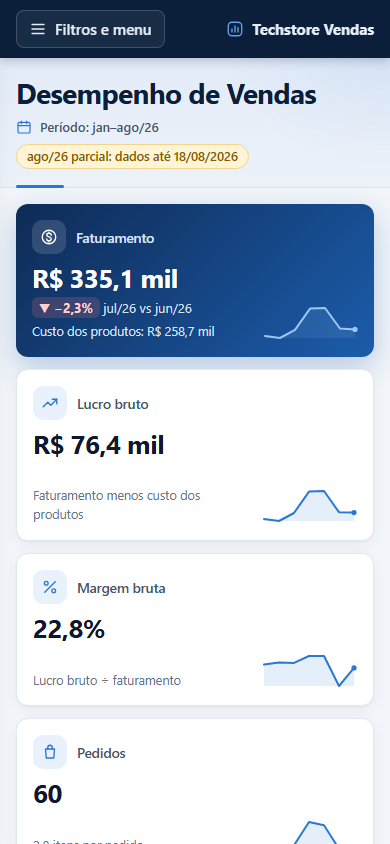
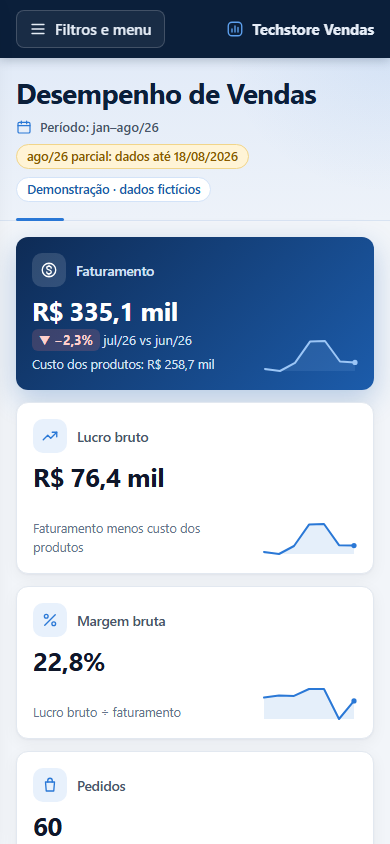
Documentação: README para portfólio com link do dashboard publicado
README reorganizado para recrutadores: link da demonstração pública, resumo
com objetivo, entregas, qualidade e competências, principais números (dados
fictícios), arquitetura e fluxo dos dados, modelagem, consultas e views.
Deixa explícito que a demonstração usa dados estáticos, sem acesso a banco.

Capturas de docs/imagens refeitas a partir do endereço público, nos mesmos
estados e tamanhos (mesmos nomes, sem arquivos novos). Dashboard inalterado.

Espelho-de: bea810dacbb222afa33186f463aac31b462c46fa

diff --git a/README.md b/README.md
@@ -1,25 +1,42 @@
 # TechStore Vendas · Análise de vendas com PostgreSQL, API e dashboard web
 
-Projeto de portfólio que leva os dados de uma loja de tecnologia **do banco ao dashboard**:
-- modelagem e correção de um banco **PostgreSQL**, com scripts reproduzíveis e testes automáticos de qualidade;
-- camada analítica em **modelo estrela**;
-- **API somente leitura em Python (FastAPI)**;
-- **dashboard web** em HTML, CSS, JavaScript e Chart.js;
-- material de redesenho do relatório **Power BI**.
+Projeto de portfólio em **Análise de Dados e Business Intelligence**. Ele leva os dados de vendas de uma loja de tecnologia **do banco de dados ao dashboard**, com cada número conferido por testes automáticos.
 
-> 🔗 **Dashboard online (demonstração):** `https://<seu-usuario>.github.io/<repositorio>/` *(o endereço final aparece em Settings › Pages depois da primeira publicação; ver [docs/PUBLICACAO.md](docs/PUBLICACAO.md))*
->
+### ▶ [Acessar o dashboard online](https://thiagomiranda396.github.io/techstore-vendas/)
+
+`https://thiagomiranda396.github.io/techstore-vendas/`, no computador ou no celular, sem instalar nada.
+
 > ⚠ **Dados fictícios.** Clientes, vendedores e pedidos foram criados para demonstração. Os custos de produto vêm da base de desenvolvimento do autor e também são de uma loja fictícia.
+>
+> 🔒 **A demonstração pública usa dados estáticos.** O GitHub Pages serve um arquivo com os dados já exportados ([web/dados-demo/demo.json](web/dados-demo/demo.json)), e os indicadores são calculados no navegador. A página publicada **não acessa banco de dados, API nem nenhum computador do autor**.
 
-![Dashboard TechStore Vendas](docs/imagens/painel_desktop.png)
+![Dashboard TechStore Vendas: indicadores principais e destaques do período](docs/imagens/painel_desktop.png)
+
+---
+
+## Resumo
+
+| | |
+|---|---|
+| **Objetivo** | Transformar scripts SQL com erros num processo de dados confiável e entregar um painel de vendas, rentabilidade e equipe comercial |
+| **Entregas** | Banco PostgreSQL reproduzível, camada analítica em modelo estrela, API somente leitura, dashboard web publicado e material de Power BI |
+| **Qualidade** | 71 testes no banco, 55 testes na API, 10 testes da demonstração estática e 482 de 482 respostas da demonstração idênticas às da API |
+| **Competências** | Modelagem relacional e dimensional · SQL analítico (funções de janela, CTEs) · qualidade e reconciliação de dados · definição de KPIs · visualização de dados · Python · controle de acesso a dados · documentação de decisões |
+
+**Principais números (dados fictícios, jan a ago/2026):**
+- R$ 335,1 mil de faturamento, com margem bruta de 22,8%;
+- 60 pedidos e ticket médio de R$ 5.584,37;
+- 8 de 19 produtos concentram 81,6% da receita (classe A da curva ABC);
+- Informática responde por 44,3% do faturamento; Acessórios tem a maior margem (33,9%);
+- 37,5% dos clientes compraram mais de uma vez.
 
 ---
 
 ## Problema de negócio
 
-A loja quer responder, com números confiáveis:
+A loja precisa responder, com números confiáveis:
 - **Quanto vendemos e com que rentabilidade?** Faturamento, custo, lucro bruto e margem por mês, categoria e produto.
-- **Onde está a receita?** Concentração de faturamento (curva ABC) e categorias líderes.
+- **Onde está a receita?** Concentração do faturamento (curva ABC) e categorias líderes.
 - **Quem compra e quem volta a comprar?** Clientes ativos e recorrência.
 - **Como está a equipe comercial?** Faturamento, margem, ticket e clientes por vendedor.
 
@@ -28,7 +45,7 @@ O ponto de partida foram scripts SQL que **não rodavam do zero**:
 - itens apontavam para pedidos que não existiam;
 - havia pedidos anteriores ao cadastro do cliente.
 
-Também faltava um relatório **verificável**. O projeto corrige isso, documenta cada decisão e prova os números com testes.
+Também faltava um relatório **verificável**. O projeto corrige esses problemas, documenta cada decisão e prova os números com testes. Os scripts originais foram preservados em [sql/](sql/) como histórico.
 
 ---
 
@@ -36,15 +53,15 @@ Também faltava um relatório **verificável**. O projeto corrige isso, document
 
 | Camada | Tecnologia | Uso no projeto |
 |---|---|---|
-| Banco | **PostgreSQL 18**, **SQL** | DDL com restrições, carga em transação única, views analíticas, papéis de acesso, 71 testes de qualidade em SQL |
+| Banco | **PostgreSQL 18**, **SQL** | Estrutura com restrições, carga em transação única, views analíticas, papéis de acesso, 71 testes de qualidade em SQL |
 | API | **Python 3.12**, **FastAPI**, **psycopg 3**, **pytest** | 7 endpoints somente leitura e 55 testes (reconciliação, segurança e privilégios) |
 | Dashboard | **HTML**, **CSS**, **JavaScript** (módulos ES), **Chart.js 4.4.7** (cópia local) | Painel responsivo, com filtros, comparação entre períodos e tabelas acessíveis |
 | BI | **Power BI**, **DAX**, **Power Query (M)** | Relatório original do autor e material de redesenho: tema, consultas com parâmetros e 35 medidas DAX |
-| Publicação | **GitHub Actions**, **GitHub Pages** | Publicação automática da demonstração estática |
+| Publicação | **GitHub Actions**, **GitHub Pages** | Testes e publicação automática da demonstração estática |
 
 ---
 
-## Arquitetura
+## Arquitetura e fluxo dos dados
 
 ```mermaid
 flowchart LR
@@ -59,15 +76,16 @@ flowchart LR
     V -- "papel techstore_bi_leitor" --> BI["Power BI"]
 ```
 
-- **Localmente**, o dashboard consulta a API, que lê o PostgreSQL com um usuário que **só enxerga 4 views**. O navegador nunca acessa o banco.
-- **Na demonstração pública**, a mesma interface carrega `demo.json` e recalcula os indicadores no navegador ([web/js/demo.js](web/js/demo.js)). Fora de `localhost`, o modo de demonstração é **forçado**, e a página nunca tenta acessar a API nem o banco.
-- **A demonstração é comprovadamente equivalente à API:** em 482 comparações (8 períodos × 10 combinações de filtros × todos os endpoints), houve 0 divergências.
+1. **Carga e validação:** os scripts de [database/](database/) criam as tabelas, carregam os dados e rodam 71 testes. Se algum teste falhar, a carga inteira é desfeita.
+2. **Camada analítica:** views em modelo estrela, sem dados pessoais, servem a API e o Power BI.
+3. **Versão local:** o dashboard consulta a API, que lê o PostgreSQL com um usuário que **só enxerga 4 views**. O navegador nunca acessa o banco.
+4. **Versão pública:** a mesma interface lê `demo.json` e recalcula os indicadores no navegador ([web/js/demo.js](web/js/demo.js)). Fora de `localhost`, esse modo é **obrigatório**. A equivalência com a API foi comprovada em 482 comparações (8 períodos × 10 combinações de filtros × todos os endpoints), com 0 divergências.
 
 Mais detalhes em [docs/DASHBOARD_WEB.md](docs/DASHBOARD_WEB.md).
 
 ---
 
-## Modelagem de dados
+## Modelagem no PostgreSQL
 
 - **Modelo relacional:** 8 tabelas (`cliente`, `endereco`, `telefone`, `vendedor`, `categoria`, `produto`, `pedido`, `itens_pedido`), com:
   - 7 chaves estrangeiras, 13 regras CHECK e 6 índices;
@@ -75,13 +93,12 @@ Mais detalhes em [docs/DASHBOARD_WEB.md](docs/DASHBOARD_WEB.md).
 - **Modelo dimensional (estrela):**
   - `vw_fato_vendas`, com uma linha por item e só chaves e medidas;
   - `vw_dim_produto`, `vw_dim_vendedor` e `vw_dim_cliente`, **sem CPF, e-mail, telefone ou salário**;
-  - `vw_dim_calendario`, com nomes em português e a situação de cada mês (completo ou parcial).
+  - `vw_dim_calendario`, com nomes em português e a situação de cada mês (completo ou parcial);
+  - `vw_vendas`, a view do relatório original, mantida com o mesmo contrato de 15 colunas.
 
 Diagramas em [docs/MODELO_DE_DADOS.md](docs/MODELO_DE_DADOS.md) e colunas em [docs/DICIONARIO_DE_DADOS.md](docs/DICIONARIO_DE_DADOS.md).
 
----
-
-## SQL: o que foi desenvolvido
+### Consultas SQL e views analíticas
 
 | Script | Conteúdo | Técnicas |
 |---|---|---|
@@ -94,7 +111,11 @@ Diagramas em [docs/MODELO_DE_DADOS.md](docs/MODELO_DE_DADOS.md) e colunas em [do
 | [08_verificacoes_qualidade.sql](database/08_verificacoes_qualidade.sql) | **71 testes** | Reconciliação de totais, integridade temporal, órfãos, contrato da view, ausência de dados pessoais |
 | [09](database/09_acesso_leitura_bi.sql) · [10](database/10_acesso_leitura_api.sql) | Acesso | Papéis com privilégio mínimo (`SELECT` só em views) |
 
-**Consultas da API** ([api/techstore_api/consultas/](api/techstore_api/consultas/)): série mensal com `LAG` e média móvel `AVG OVER (ROWS 2 PRECEDING)`, curva ABC com soma acumulada e `DENSE_RANK`, comparação do último mês completo e recorrência de clientes.
+**Consultas do dashboard** ([api/techstore_api/consultas/](api/techstore_api/consultas/)):
+- série mensal com `LAG` e média móvel `AVG OVER (ROWS 2 PRECEDING)`;
+- curva ABC com soma acumulada e `DENSE_RANK`;
+- comparação do último mês completo;
+- recorrência de clientes.
 
 Cada correção feita nos scripts originais está registrada, com evidência, em [docs/DECISOES_E_CORRECOES.md](docs/DECISOES_E_CORRECOES.md).
 
@@ -118,16 +139,23 @@ Cada correção feita nos scripts originais está registrada, com evidência, em
   - período, com atalhos de trimestre e de últimos 3 meses;
   - categorias e vendedores, combináveis;
   - etiquetas removíveis e botão de redefinir;
-  - **filtros refletidos na URL**, para compartilhar uma visão filtrada.
+  - **filtros refletidos na URL**, para compartilhar uma visão filtrada ([exemplo: mai a jul/2026](https://thiagomiranda396.github.io/techstore-vendas/?de=2026-05&ate=2026-07)).
 - **Qualidade de uso:**
-  - layout responsivo (lateral vira menu deslizante no celular);
+  - layout responsivo (no celular, a lateral vira um menu deslizante);
   - tabela alternativa para os gráficos e navegação por teclado;
   - mês parcial sinalizado;
   - estados de "sem vendas" e "fonte indisponível".
 
 | Comparação entre períodos | Celular | Menu no celular |
 |---|---|---|
-| ![Comparação](docs/imagens/painel_comparacao_periodos.png) | ![Celular](docs/imagens/painel_celular.png) | ![Menu](docs/imagens/painel_celular_menu.png) |
+| ![Comparação de mai a jul/2026 com fev a abr/2026](docs/imagens/painel_comparacao_periodos.png) | ![Dashboard no celular](docs/imagens/painel_celular.png) | ![Menu de filtros no celular](docs/imagens/painel_celular_menu.png) |
+
+<details>
+<summary><b>Ver o dashboard completo</b> (tendência, categorias, curva ABC e equipe comercial)</summary>
+
+![Página inteira do dashboard](docs/imagens/painel_desktop_pagina_inteira.png)
+
+</details>
 
 ---
 
@@ -143,25 +171,9 @@ Cada correção feita nos scripts originais está registrada, com evidência, em
 
 ---
 
-## Estrutura do repositório
+## Como executar a versão local
 
-```
-database/        Scripts SQL reproduzíveis (00 executor · 01–06 carga · 07 consultas · 08 testes · 09–10 acesso)
-api/             API FastAPI (techstore_api/), consultas SQL fixas, testes, exportador da demonstração
-web/             Dashboard (HTML/CSS/JS), Chart.js local e dados da demonstração (dados-demo/)
-powerbi/         Tema, consultas Power Query e medidas DAX (sem .pbix)
-docs/            Decisões, modelo, dicionário, validação, dashboard, Power BI, ambiente, publicação
-docs/evidencias/ Saídas reais das execuções de validação do banco
-docs/imagens/    Capturas de tela
-sql/             Scripts originais, preservados como histórico (não executar; ver as correções C2–C5)
-documentacao/    Diagrama conceitual original (BRModelo)
-scripts/         Geração do branch de publicação
-.github/         Publicação automática no GitHub Pages
-```
-
----
-
-## Como executar localmente
+Para só ver o dashboard, use a [demonstração online](https://thiagomiranda396.github.io/techstore-vendas/). A versão local consulta o banco ao vivo pela API.
 
 Pré-requisitos: **PostgreSQL 15 ou mais novo** (validado no 18) com `psql`, e **Python 3.12**.
 
@@ -172,7 +184,7 @@ psql "host=localhost port=5433 dbname=techstore_dev_v1 user=<usuario>" -X -v ON_
 ```
 Resultado esperado: a tabela de testes sem nenhuma FALHA e a mensagem `Carga concluída e validada.` O executor só aceita bancos `techstore_dev*`.
 
-**2. Usuário somente leitura da API.** Crie o papel, defina a senha com `\password` e conceda o acesso; os comandos estão no cabeçalho de [database/10_acesso_leitura_api.sql](database/10_acesso_leitura_api.sql).
+**2. Usuário somente leitura da API.** Crie o papel, defina a senha com `\password` e conceda o acesso. Os comandos estão no cabeçalho de [database/10_acesso_leitura_api.sql](database/10_acesso_leitura_api.sql).
 ```bash
 psql "host=localhost port=5433 dbname=techstore_dev_v1 user=<usuario>" -X -f database/10_acesso_leitura_api.sql
 ```
@@ -183,9 +195,9 @@ cd api
 python -m venv .venv
 .\.venv\Scripts\python.exe -m pip install -r requirements-dev.txt
 powershell -ExecutionPolicy Bypass -File criar_env.ps1   # cria api\.env com a senha digitada de forma oculta (fora do Git)
-.\.venv\Scripts\python.exe -m techstore_api              # http://127.0.0.1:8000
+.\.venv\Scripts\python.exe -m techstore_api              # abra http://127.0.0.1:8000
 ```
-Ajuste o banco e a porta em `api\.env`, se forem diferentes do modelo [api/.env.exemplo](api/.env.exemplo).
+Se o banco e a porta forem diferentes do modelo [api/.env.exemplo](api/.env.exemplo), ajuste-os em `api\.env`.
 
 **4. Demonstração estática, localmente:** `http://127.0.0.1:8000/?fonte=demo`, ou qualquer servidor estático apontado para `web/`.
 
@@ -221,9 +233,25 @@ Os valores de referência são faturamento **R$ 335.062,30**, custo **R$ 258.699
 | Custo histórico | Foi registrado a partir do custo atual na carga inicial (não existe histórico real anterior) |
 | Demonstração pública | Usa um retrato estático dos dados; não consulta o banco ao vivo |
 | API | Feita para uso local, sem autenticação de usuários nem TLS |
-| Navegadores | A interface foi validada no Edge (Chromium); Firefox e Safari não foram testados |
+| Navegadores | Validação automatizada no Edge (Chromium); Firefox e Safari não passaram por testes automatizados |
 
 ---
+
+## Estrutura do repositório
+
+```
+database/        Scripts SQL reproduzíveis (00 executor · 01–06 carga · 07 consultas · 08 testes · 09–10 acesso)
+api/             API FastAPI (techstore_api/), consultas SQL fixas, testes, exportador da demonstração
+web/             Dashboard (HTML/CSS/JS), Chart.js local e dados da demonstração (dados-demo/)
+powerbi/         Tema, consultas Power Query e medidas DAX (sem .pbix)
+docs/            Decisões, modelo, dicionário, validação, dashboard, Power BI, ambiente, publicação
+docs/evidencias/ Saídas reais das execuções de validação do banco
+docs/imagens/    Capturas de tela
+sql/             Scripts originais, preservados como histórico (não executar; ver as correções C2–C5)
+documentacao/    Diagrama conceitual original (BRModelo)
+scripts/         Geração do branch de publicação
+.github/         Testes e publicação automática no GitHub Pages
+```
 
 ## Documentação
 
@@ -239,4 +267,4 @@ Os valores de referência são faturamento **R$ 335.062,30**, custo **R$ 258.699
 
 ---
 
-**Autor:** Thiago Miranda · Dados & Business Intelligence
+**Autor:** Thiago Miranda · Dados & Business Intelligence · [Dashboard online](https://thiagomiranda396.github.io/techstore-vendas/)

diff --git a/docs/APRESENTACAO_PORTFOLIO.md b/docs/APRESENTACAO_PORTFOLIO.md
@@ -11,7 +11,7 @@ Material de apoio para divulgar o projeto. Revise e ajuste ao seu tom antes de p
 **Descrição (até 350 caracteres):**
 > Análise de vendas de ponta a ponta: PostgreSQL com 71 testes de qualidade, modelo estrela sem dados pessoais, API FastAPI somente leitura (55 testes) e dashboard web responsivo em Chart.js, com demonstração pública. Material de Power BI com 35 medidas DAX. Dados fictícios.
 
-**Website do repositório:** o endereço do GitHub Pages (Settings › Pages).
+**Website do repositório:** https://thiagomiranda396.github.io/techstore-vendas/ (em *About › Website*, na página do repositório).
 
 **Tópicos:** `postgresql` · `sql` · `data-modeling` · `star-schema` · `data-quality` · `fastapi` · `python` · `javascript` · `chartjs` · `dashboard` · `power-bi` · `dax` · `github-pages` · `portfolio`
 
@@ -21,7 +21,7 @@ Material de apoio para divulgar o projeto. Revise e ajuste ao seu tom antes de p
 - [x] Nenhuma credencial versionada: `api/.env` é ignorado; só o `api/.env.exemplo`, sem valores, vai para o repositório
 - [x] `.pbix` fora do repositório público (identificadores do Power BI Service, credenciais criptografadas e modelo binário não auditável); no lugar, tema, consultas, medidas DAX, guia e capturas
 - [x] Commits publicados com o e-mail privado do GitHub ([PUBLICACAO.md](PUBLICACAO.md))
-- [ ] Atualizar o link da demonstração no README depois da primeira publicação no GitHub Pages
+- [x] Link da demonstração no README
 
 ---
 
@@ -47,7 +47,8 @@ Material de apoio para divulgar o projeto. Revise e ajuste ao seu tom antes de p
 >
 > Os dados são fictícios; o processo é o que eu aplicaria num projeto real.
 >
-> 🔗 Dashboard: [link do GitHub Pages] · Código: [link do repositório]
+> 🔗 Dashboard: https://thiagomiranda396.github.io/techstore-vendas/
+> 💻 Código: https://github.com/thiagomiranda396/techstore-vendas
 >
 > #PostgreSQL #SQL #Python #FastAPI #PowerBI #DataAnalytics #BusinessIntelligence #QualidadeDeDados #Portfolio
 
